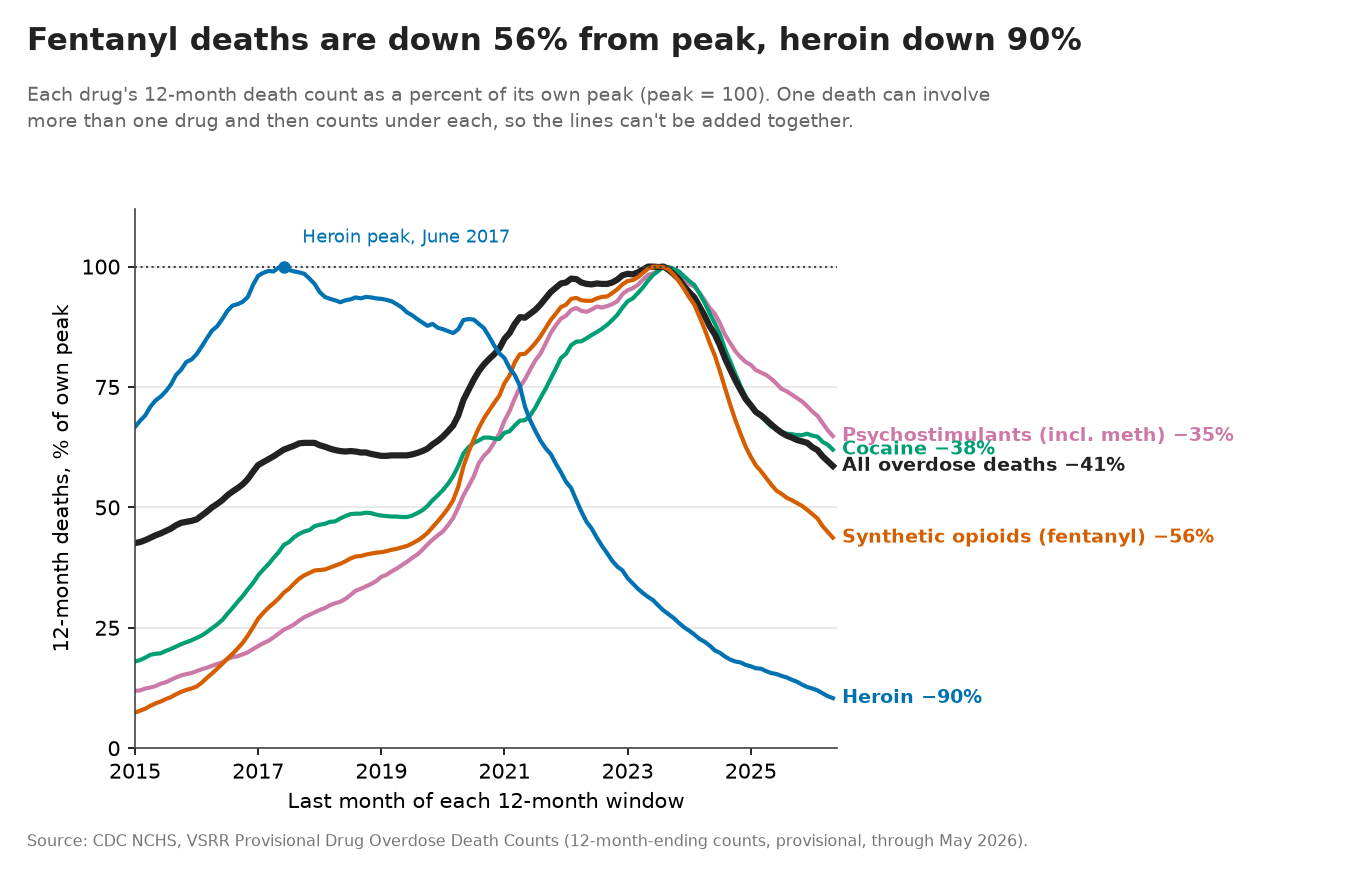
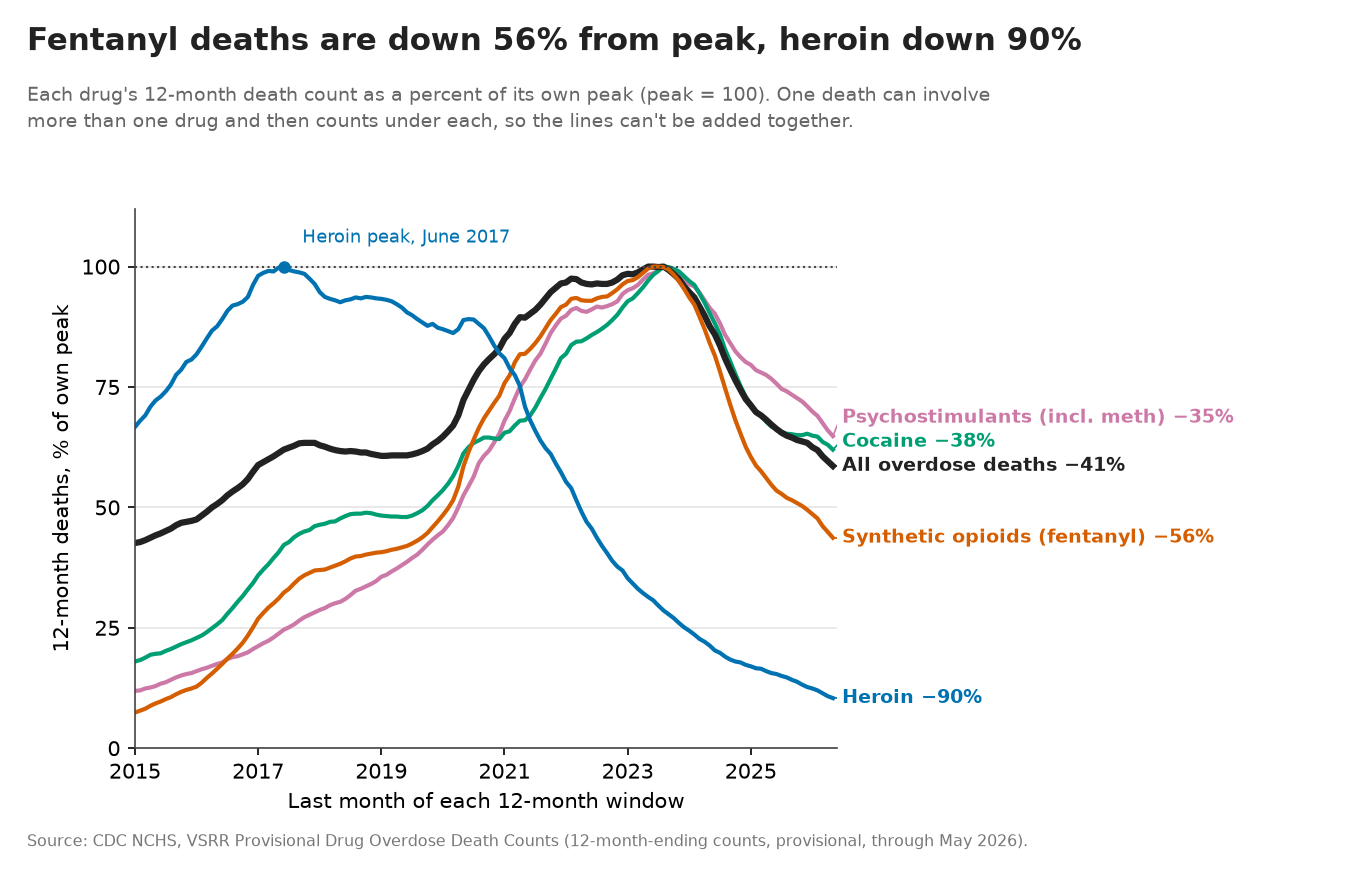
Chart 2: spread end labels; round percent ties toward zero

Changed region(s): [[0.6222, 0.4655, 0.9333, 0.5276]]

diff --git a/charts/static_charts.py b/charts/static_charts.py
@@ -106,11 +106,16 @@ def chart2():
            "death can involve\nmore than one drug and then counts under each, so the lines "
            "can't be added together.")
     ax = fig.add_axes([0.10, 0.14, 0.52, 0.62])
-    for k, name, c in spec:
+    ends = sorted((D["nationalIndexed"][k][-1], i) for i, (k, _, _) in enumerate(spec))
+    ypos, prev = {}, -99
+    for y, i in ends:  # keep end labels at least 5 points apart
+        prev = ypos[i] = max(y, prev + 5)
+    for i, (k, name, c) in enumerate(spec):
         y = D["nationalIndexed"][k]
         ax.plot(X, y, color=c, lw=3 if k == "total" else 2)
         pct = rnd(D["nationalPeak"][k]["pctChange"])
-        ax.text(X[-1] + 0.15, y[-1], f"{name} {pct}%".replace("-", "−"), color=c,
+        ax.plot([X[-1], X[-1] + 0.12], [y[-1], ypos[i]], color=c, lw=0.8)
+        ax.text(X[-1] + 0.15, ypos[i], f"{name} {pct}%".replace("-", "−"), color=c,
                 fontsize=9, fontweight="bold", va="center")
     hp = D["nationalPeak"]["heroin"]["peakIdx"]
     ax.scatter([X[hp]], [100], color=BLUE, s=25, zorder=5)
